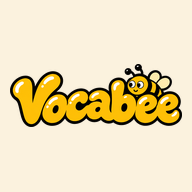
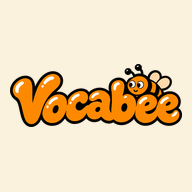
Recolor Vocabee wordmark yellow→amber for color consistency
Shift the logo/wordmark fill from golden-yellow to the app's amber
(#FF9E2C) so the logo, landing, icons and theme all read as one color.
Regenerated all app icons (512/192/maskable/apple-touch/favicon) as the
amber wordmark on the beige (#FBF2DE) background. Bump sw VERSION v4→v5
so returning students pick up the new icons.

Claude-Session: https://claude.ai/code/session_012w8ZmBwBSQW1xcqS2AzPnW

Changed region(s): [[0.0625, 0.375, 0.9375, 0.6562]]

diff --git a/sw.js b/sw.js
@@ -1,5 +1,5 @@
 // Offline cache. Bump VERSION when files change so students get the update.
-const VERSION = 'v4';
+const VERSION = 'v5';
 const CORE = ['./', 'index.html', 'style.css', 'app.js', 'lib/ts-fsrs.umd.js', 'manifest.webmanifest', 'icons/favicon-64.png', 'icons/apple-touch-icon.png', 'icons/icon-192.png', 'icons/icon-512.png', 'icons/icon-maskable-512.png', 'icons/tab1.png', 'icons/tab2.png', 'icons/tab3.png', 'icons/tab4.png', 'icons/logo.png', 'icons/landing-bees.png', 'data/jhs.json', 'data/questions.json'];
 self.addEventListener('install', e => { e.waitUntil(caches.open(VERSION).then(c => c.addAll(CORE)).then(() => self.skipWaiting())); });
 self.addEventListener('activate', e => { e.waitUntil(caches.keys().then(ks => Promise.all(ks.filter(k => k !== VERSION).map(k => caches.delete(k)))).then(() => self.clients.claim())); });
